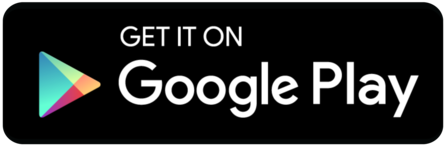
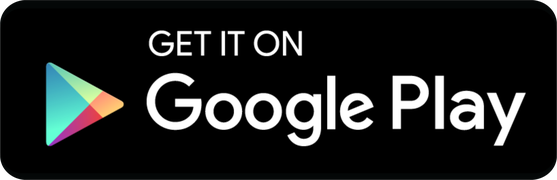
chore(web): upgrade store badges to high-res matched black pills and increase display size

Changed region(s): [[0.0, 0.0, 1.0, 1.0], [0.25, 0.1569, 0.5625, 0.3137]]

diff --git a/packages/web/css/style.css b/packages/web/css/style.css
@@ -282,7 +282,7 @@ a:hover {
 }
 
 .store-badge-img {
-  height: 52px;
+  height: clamp(54px, 6vw, 62px);
   width: auto;
   object-fit: contain;
   display: block;
